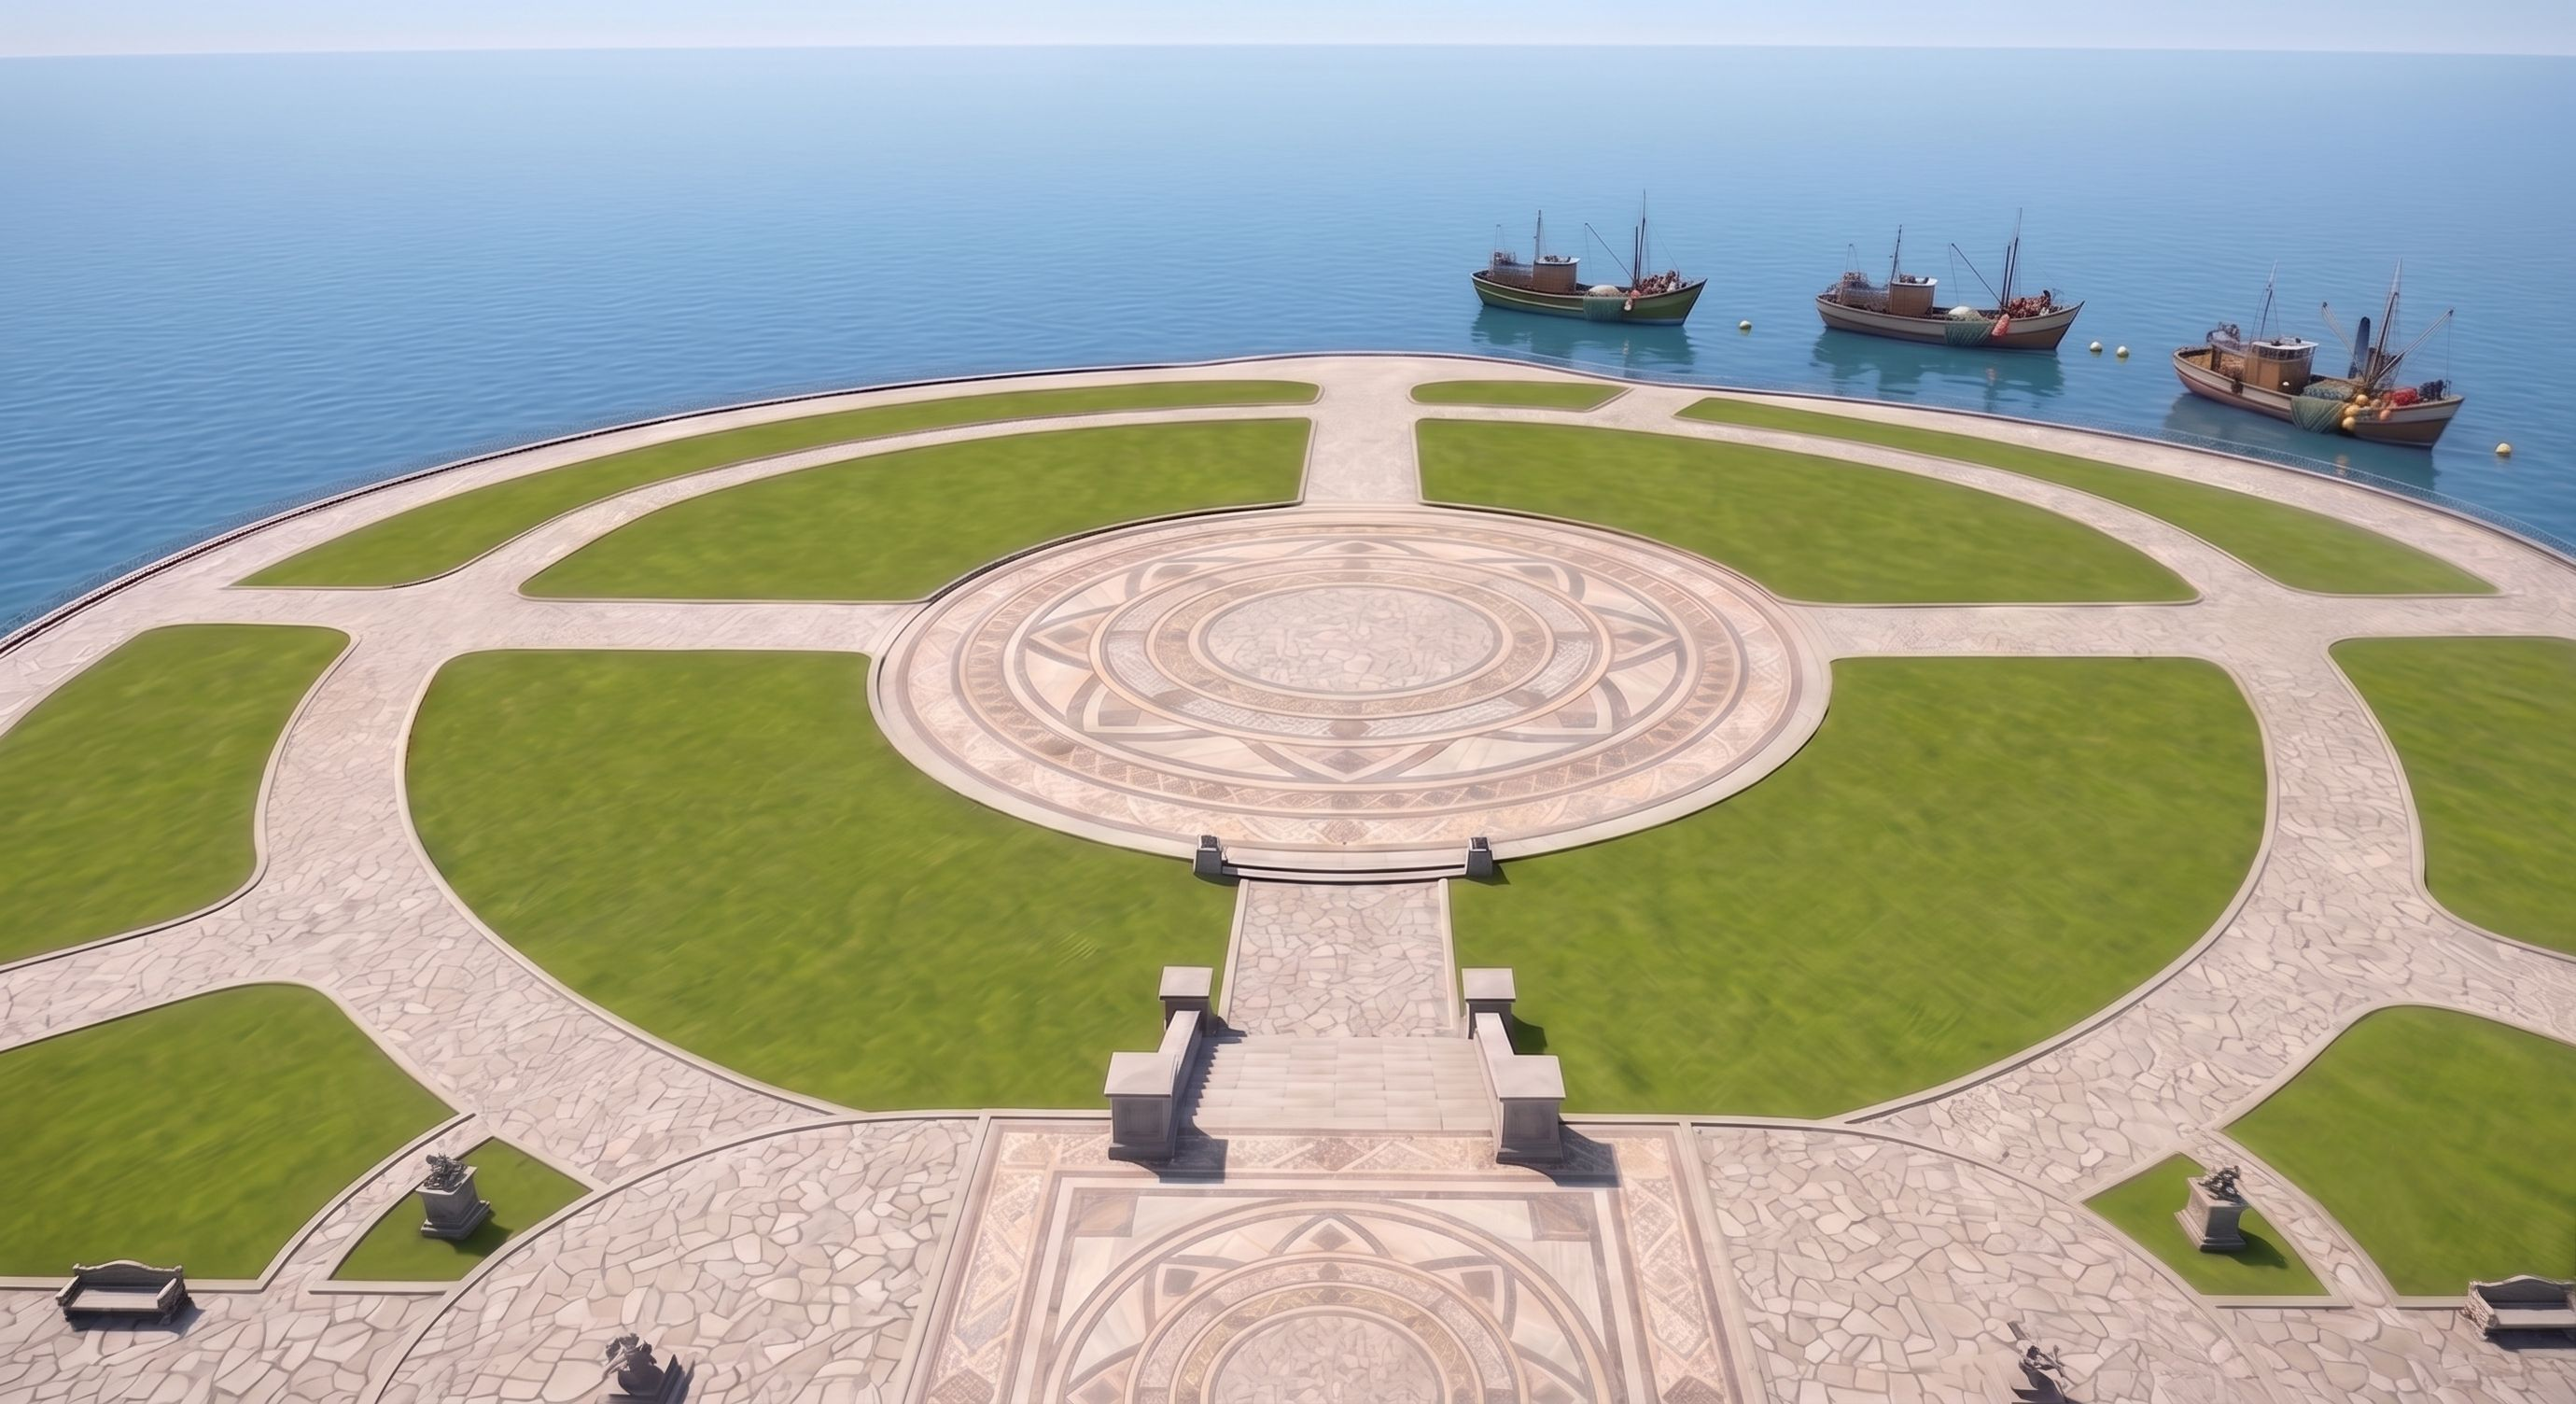
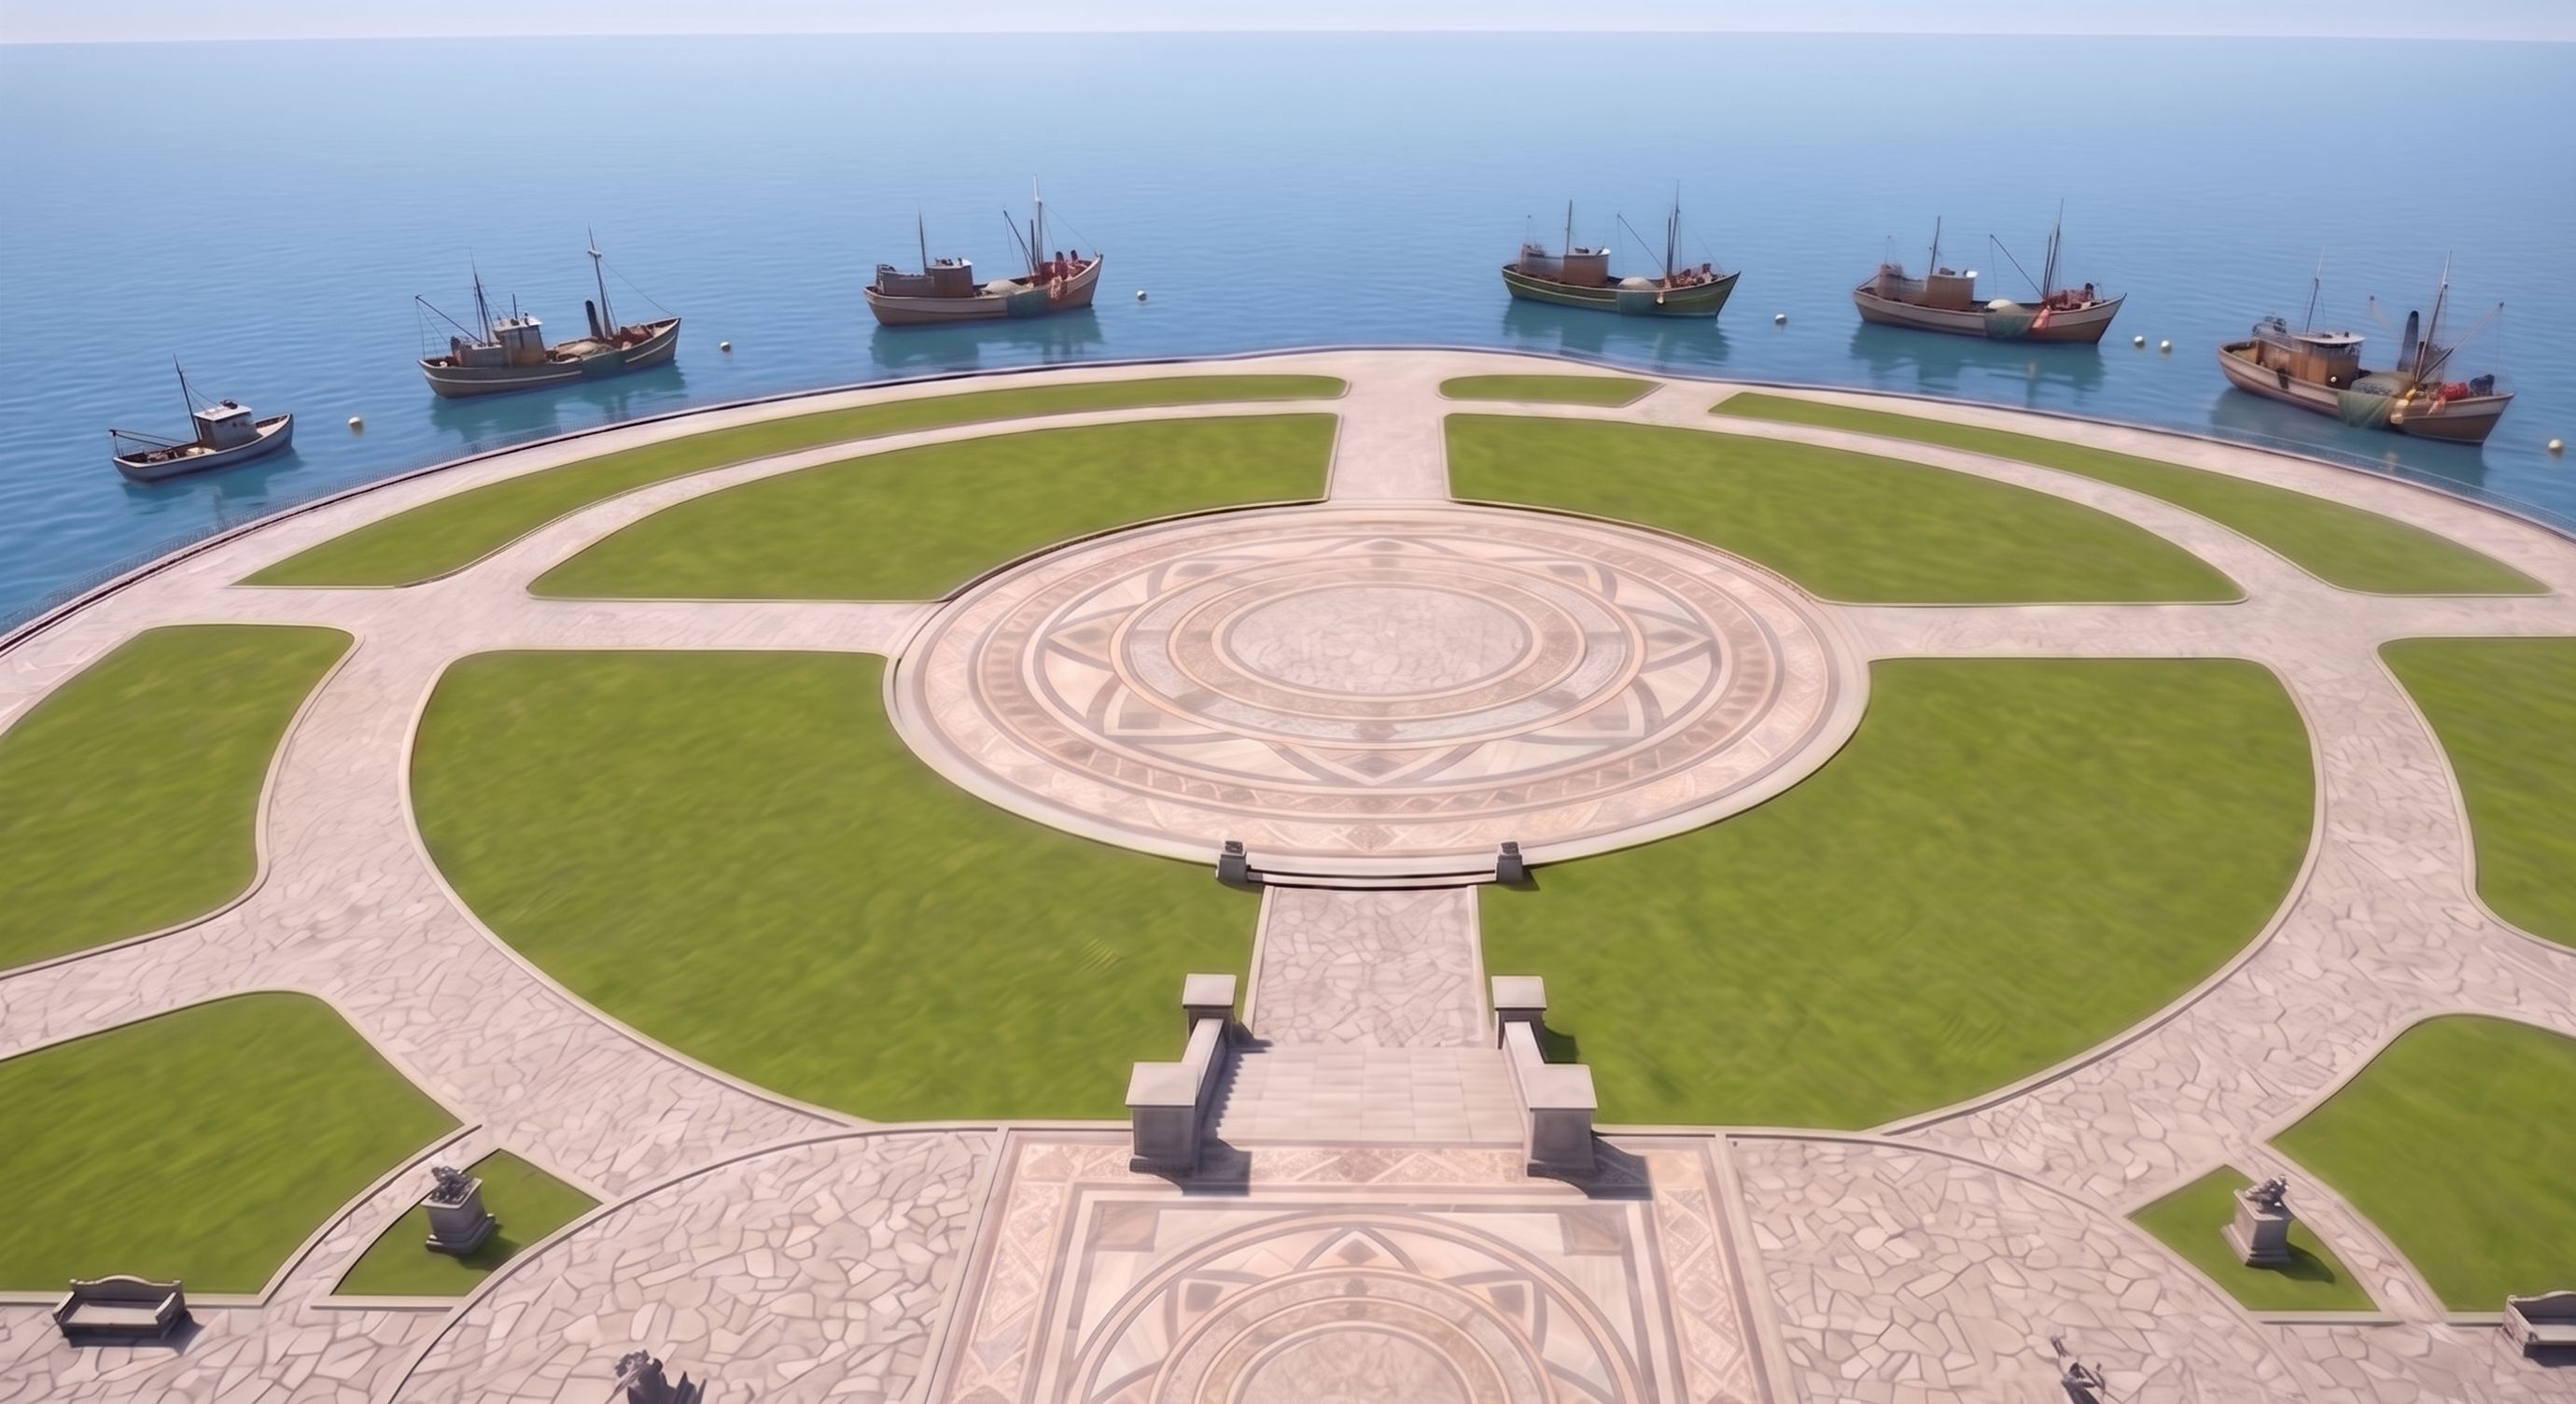
바다광장 _imgAspect를 실제 이미지 비율(1.835)로 - 하단 잘림 수정 (v120)

diff --git a/lib/ui_plaza.dart b/lib/ui_plaza.dart
@@ -1285,7 +1285,8 @@ class _PlazaScreenState extends State<PlazaScreen> with SingleTickerProviderStat
   }
 
   // 🗺️ 카메라/월드: 큰 광장 그림(3296x1700)을 두고 카메라가 캐릭터를 따라 스크롤
-  static const double _imgAspect = 3296 / 1700; // 월드 가로:세로 비율
+  // 월드 가로:세로 비율. 바다광장은 실제 이미지 비율(2760×1504)로 → 하단 안 잘림. 민물은 기존값 유지(배치 보존).
+  double get _imgAspect => widget.isSea ? (2760 / 1504) : (3296 / 1700);
   static const double _baseFrac = 0.72; // 기본 줌(=캐릭터/NPC 크기 기준). 화면이 보여주는 월드 세로 비율
   double _zoomScale = 1.0; // 🔍 줌 배율 (1.0=기본 와이드 ~ 2.6=확대). Transform.scale 중앙 확대
   double _zoomStartScale = 1.0; // 핀치 시작 배율

diff --git a/lib/app_version.dart b/lib/app_version.dart
@@ -13,7 +13,7 @@ import 'dart:html' as html;
 import 'package:flutter/material.dart';
 
 /// ⚠️ 배포마다 올리는 빌드 식별자 (web/appver.json 과 같은 값으로 유지)
-const String kBuildId = '20260701-119';
+const String kBuildId = '20260701-120';
 
 bool _updateChecked = false;
 